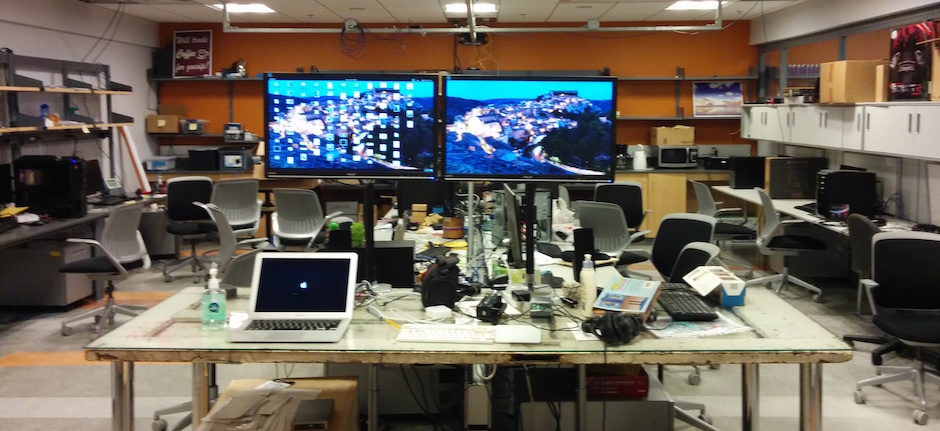
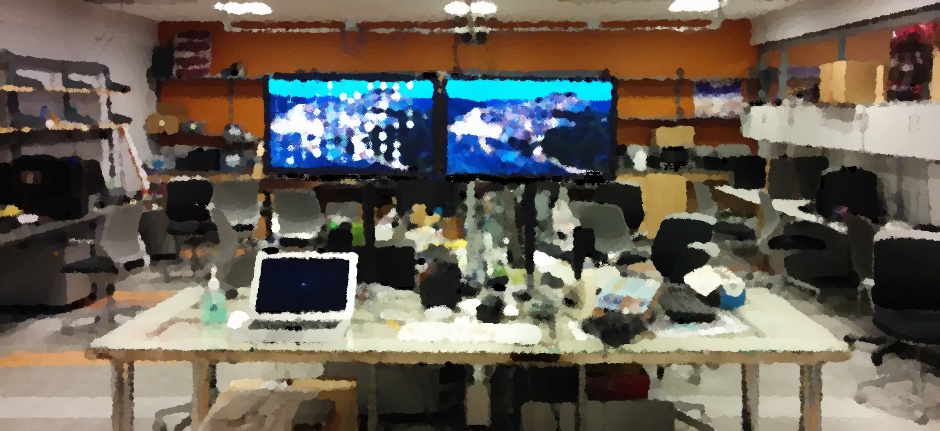
Getting there.

diff --git a/src/index.html b/src/index.html
@@ -9,7 +9,7 @@ priority: 1.0
 ---
 <div class="row">
   <div class="col-xs-12">
-    <img src="/assets/img/group/1.jpg" class="img-responsive img-rounded"
+    <img src="/assets/img/group/3.jpg" class="img-responsive img-rounded"
     alt="blue Systems Group Photo" />
   </div>
 </div>
